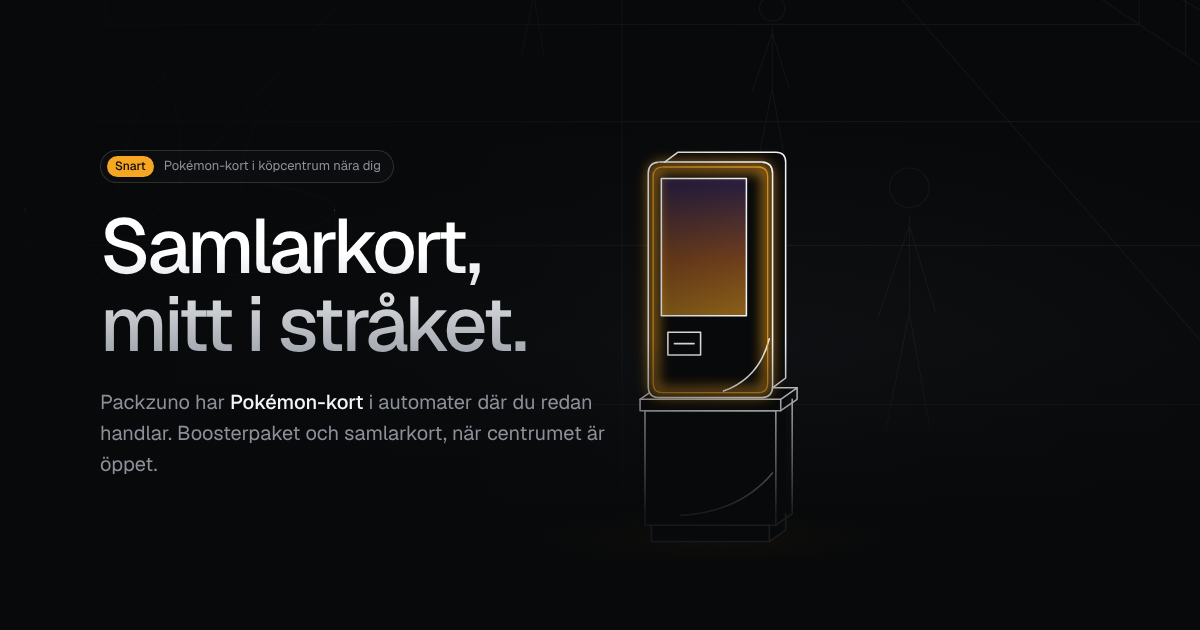
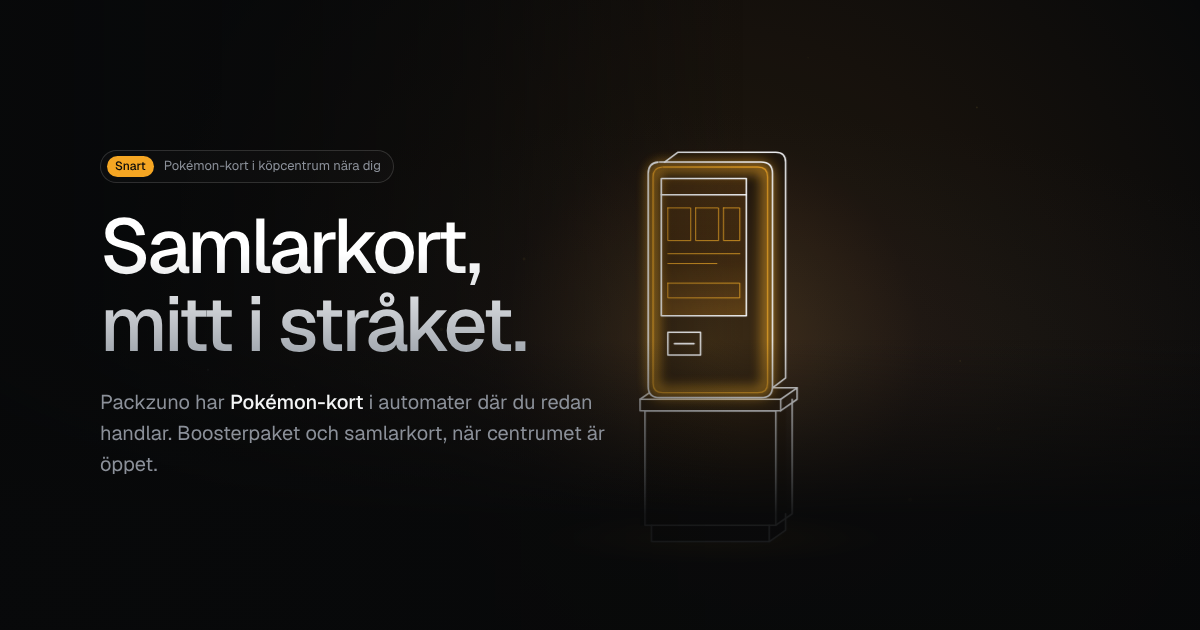
Stramare scen: bort med pinnfigurer och växter, skarpare ljusspetsar
Automaten får en skärm med kortgränssnitt i stället för solnedgångsgradient
och tappar de dekorativa svepen. Tunnare linjer, diskretare partiklar och
spökskissen tonas in först när köpcentret ritas.

Claude-Session: https://claude.ai/code/session_01N4kNahJzr4SUsNUhcFZ9Vr

Changed region(s): [[0.4933, 0.2714, 0.74, 0.6635]]

diff --git a/index.html b/index.html
@@ -132,13 +132,14 @@ h1{font-family:var(--font-display);font-weight:500;font-size:clamp(44px,8vw,88px
 .stage svg{position:absolute;inset:0;width:100%;height:100%;display:block}
 .stage canvas{position:absolute;inset:0;width:100%;height:100%;display:block;pointer-events:none}
 #fx{mix-blend-mode:screen}
-.ln{fill:none;stroke:url(#lineGrad);stroke-width:var(--sw,1);stroke-linecap:round;stroke-linejoin:round;stroke-dasharray:1 1;stroke-dashoffset:1;opacity:.75}
-.ln.halo{stroke-width:calc(var(--sw,1) * 5);opacity:.13}
+.ln{fill:none;stroke:url(#lineGrad);stroke-width:calc(var(--sw,1) * .85);stroke-linecap:round;stroke-linejoin:round;stroke-dasharray:1 1;stroke-dashoffset:1;opacity:.75}
+.ln.halo{stroke-width:calc(var(--sw,1) * 4);opacity:.08}
+.ln.ui{stroke:#f5a623;stroke-width:calc(var(--sw,1) * 1.1);opacity:.85}
 .ln.mach{stroke:#eef0f3;stroke-width:calc(var(--sw,1) * 1.9);opacity:1}
 .ln.amber{stroke:var(--amber)}
 .ln.dim{stroke:var(--amber);opacity:.9;stroke-width:calc(var(--sw,1) * 1.4)}
 .ln.amber{stroke-width:calc(var(--sw,1) * 1.6)}
-.ghost path{fill:none;stroke:url(#lineGrad);stroke-width:var(--sw,1);opacity:.06}
+.ghost path{fill:none;stroke:url(#lineGrad);stroke-width:var(--sw,1);opacity:.05}
 .svg-label{font-family:var(--font-mono);fill:var(--fg);letter-spacing:.04em}
 .svg-dim{font-family:var(--font-mono);fill:var(--amber);letter-spacing:.04em}
 .captions{position:absolute;left:0;right:0;bottom:0;padding-bottom:max(36px,env(safe-area-inset-bottom,0px));pointer-events:none}
@@ -255,9 +256,9 @@ footer .row{display:flex;justify-content:space-between;flex-wrap:wrap;gap:12px}
             <stop offset="1" stop-color="#f5a623" stop-opacity="0"/>
           </radialGradient>
           <linearGradient id="screenFill" x1="0" y1="0" x2="0" y2="1">
-            <stop offset="0" stop-color="#3b2a6b"/>
-            <stop offset=".6" stop-color="#c46a2a"/>
-            <stop offset="1" stop-color="#f5a623"/>
+            <stop offset="0" stop-color="#2b1d0d"/>
+            <stop offset=".6" stop-color="#1a1209"/>
+            <stop offset="1" stop-color="#3a260e"/>
           </linearGradient>
           <filter id="blur" x="-50%" y="-50%" width="200%" height="200%"><feGaussianBlur stdDeviation="4"/></filter>
           <radialGradient id="lineGrad" gradientUnits="userSpaceOnUse" cx="640" cy="560" r="760">
@@ -445,14 +446,12 @@ footer .row{display:flex;justify-content:space-between;flex-wrap:wrap;gap:12px}
   // back wall: escalator + shops
   back.push("M462 412L548 294","M492 412L578 294","M456 398L542 280","M498 398L584 280","M456 398L462 412","M584 280L578 294");
   back.push("M610 412V294","M672 412V294","M734 412V294","M610 316H768","M600 270V216","M664 270V216","M724 270V216");
-  // planter / bench
-  back.push("M330 540a70 14 0 1 0 140 0a70 14 0 1 0 -140 0","M330 540V556a70 14 0 0 0 140 0V540","M372 534c4-30 10-48 28-62M400 528c2-26 -2-44 -14-58M428 534c-2-22 6-38 20-48");
-  people.push(person(260,610,108),person(560,470,60),person(668,520,77),person(730,640,119),person(140,660,126));
+
 
   /* ---------- Machine (local coords, origin = floor centre, y up negative) ---------- */
   const cab=[
     "M-40 -10H40V-80H-40Z","M-43 -80H43V-87H-43Z","M43 -80L53 -87V-94L43 -87","M-43 -87L-33 -94H53",
-    "M40 -10L50 -17V-87","M-18 -16Q18 -18 38 -42",
+    "M40 -10L50 -17V-87",
     "M-36 -10V0H36V-10","M36 0L46 -7V-17"
   ];
   const unit=[
@@ -460,7 +459,7 @@ footer .row{display:flex;justify-content:space-between;flex-wrap:wrap;gap:12px}
     "M-28 -232L-20 -238H40Q46 -238 46 -232V-100L38 -94",
     "M-30 -222H22V-138H-30Z",
     "M-26 -128H-6V-114H-26Z","M-22 -121H-10",
-    "M8 -92Q30 -100 36 -124"
+    "M-30 -212H22"
   ];
   const led="M-29 -229H29Q35 -229 35 -223V-97Q35 -91 29 -91H-29Q-35 -91 -35 -97V-223Q-35 -229 -29 -229Z";
   const dims=["M-62 0V-232","M-67 0H-57","M-67 -232H-57","M-40 16H40","M-40 11V21","M40 11V21"];
@@ -490,11 +489,10 @@ footer .row{display:flex;justify-content:space-between;flex-wrap:wrap;gap:12px}
   addGroup(mall,ceil,.14,.28);
   addGroup(mall,shops,.18,.34);
   addGroup(mall,back,.24,.38);
-  addGroup(mall,people,.3,.42);
 
   // destination footprint marker on the floor
   const mark=mk("g",{},mw);
-  const markG=addGroup(mark,["M976 600a38 7 0 1 0 76 0a38 7 0 1 0 -76 0","M1014 590v20M1002 600h24"],.4,.5,"dim");
+  const markG=addGroup(mark,["M976 600a38 7 0 1 0 76 0a38 7 0 1 0 -76 0"],.4,.5,"dim");
   // machine
   const M=mk("g",{},mw);
   const floorGlow=mk("ellipse",{cx:0,cy:-2,rx:110,ry:16,fill:"url(#floorGlow)",opacity:0},M);
@@ -507,6 +505,7 @@ footer .row{display:flex;justify-content:space-between;flex-wrap:wrap;gap:12px}
   const glow=mk("path",{d:led,fill:"none",stroke:"#f5a623","stroke-width":5,filter:"url(#blur)",opacity:0},unitG);
   addGroup(unitG,unit,-2,-1,"mach");
   addGroup(unitG,[led],-2,-1,"amber");
+  addGroup(unitG,["M-26 -204h14v20h-14z","M-9 -204h14v20h-14z","M8 -204h10v20h-10z","M-26 -176h44","M-26 -170h30","M-26 -158h44v9h-44z"],-2,-1,"ui");
   const dimG=mk("g",{},M);
   const dimTexts=[
     mk("text",{x:-72,y:-116,class:"svg-dim","font-size":8,transform:"rotate(-90 -72 -116)","text-anchor":"middle"},dimG),
@@ -555,7 +554,7 @@ footer .row{display:flex;justify-content:space-between;flex-wrap:wrap;gap:12px}
     const arrived=seg(p,.68,.76);
     const pulse=arrived>0&&arrived<1?Math.sin(arrived*Math.PI):0;
     glow.setAttribute("opacity",(.85+.15*pulse).toFixed(3));
-    screen.setAttribute("opacity",".55");
+    screen.setAttribute("opacity","1");
     floorGlow.setAttribute("opacity",(.8+.6*pulse).toFixed(3));
     mark.setAttribute("opacity",(1-arrived).toFixed(3));
     document.getElementById("heroOv").style.opacity=(1-seg(p,.02,.1)).toFixed(3);
@@ -573,6 +572,7 @@ footer .row{display:flex;justify-content:space-between;flex-wrap:wrap;gap:12px}
     const upp=Math.max(vbw/box.width,vbh/box.height);
     svg.style.setProperty("--sw",(upp*1.1).toFixed(4));
     svg.setAttribute("viewBox",fit(start,aspect));
+    ghost.style.opacity=seg(p,.05,.3).toFixed(3);
     // light source follows the machine
     lineGrad.setAttribute("cx",mx.toFixed(1));lineGrad.setAttribute("cy",(my-70).toFixed(1));
     FX.vb=fitBox(start,aspect);FX.p=p;FX.z1=z1;FX.pulse=pulse;
@@ -603,7 +603,7 @@ footer .row{display:flex;justify-content:space-between;flex-wrap:wrap;gap:12px}
     [bg,fx].forEach(c=>{c.width=Math.round(W*DPR);c.height=Math.round(H*DPR);});}
   size();window.addEventListener("resize",size);
   let seed=7;const rnd=()=>(seed=(seed*16807)%2147483647)/2147483647;
-  const dust=Array.from({length:150},()=>({x:rnd()*1200,y:rnd()*700,z:.3+rnd()*.7,s:.4+rnd()*1.4,ph:rnd()*6.28,sp:.15+rnd()*.5}));
+  const dust=Array.from({length:90},()=>({x:rnd()*1200,y:rnd()*700,z:.3+rnd()*.7,s:.35+rnd()*.9,ph:rnd()*6.28,sp:.15+rnd()*.5}));
   const toS=(x,y)=>{const v=FX.vb;return [(x-v.x)/v.w*W,(y-v.y)/v.h*H];};
   const allPaths=groups.flatMap(g=>g.items).filter(el=>!el.classList.contains("mach")&&!el.classList.contains("amber"));
   let visible=true;
@@ -648,10 +648,14 @@ footer .row{display:flex;justify-content:space-between;flex-wrap:wrap;gap:12px}
         const v=el._v;if(!(v>0.01&&v<0.99))continue;
         const pt=el.getPointAtLength(v*el._len),m=el.getScreenCTM();if(!m)continue;
         const sx=m.a*pt.x+m.c*pt.y+m.e-sb.left,sy=m.b*pt.x+m.d*pt.y+m.f-sb.top;
-        const rr=10+4*Math.sin(time*20+n);
-        g=fc.createRadialGradient(sx,sy,0,sx,sy,rr*2.4);
-        g.addColorStop(0,"rgba(255,245,225,.95)");g.addColorStop(.18,"rgba(255,200,120,.55)");g.addColorStop(1,"rgba(255,160,60,0)");
-        fc.fillStyle=g;fc.fillRect(sx-rr*2.4,sy-rr*2.4,rr*4.8,rr*4.8);
+        const pb=el.getPointAtLength(Math.max(0,v-.05)*el._len);
+        const bx=m.a*pb.x+m.c*pb.y+m.e-sb.left,by2=m.b*pb.x+m.d*pb.y+m.f-sb.top;
+        const tg=fc.createLinearGradient(bx,by2,sx,sy);
+        tg.addColorStop(0,"rgba(255,190,100,0)");tg.addColorStop(1,"rgba(255,236,200,.9)");
+        fc.strokeStyle=tg;fc.lineWidth=1.5;fc.lineCap="round";fc.beginPath();fc.moveTo(bx,by2);fc.lineTo(sx,sy);fc.stroke();
+        g=fc.createRadialGradient(sx,sy,0,sx,sy,7);
+        g.addColorStop(0,"rgba(255,250,240,1)");g.addColorStop(.25,"rgba(255,210,140,.5)");g.addColorStop(1,"rgba(255,170,70,0)");
+        fc.fillStyle=g;fc.fillRect(sx-7,sy-7,14,14);
         if(++n>60)break;
       }
     }
